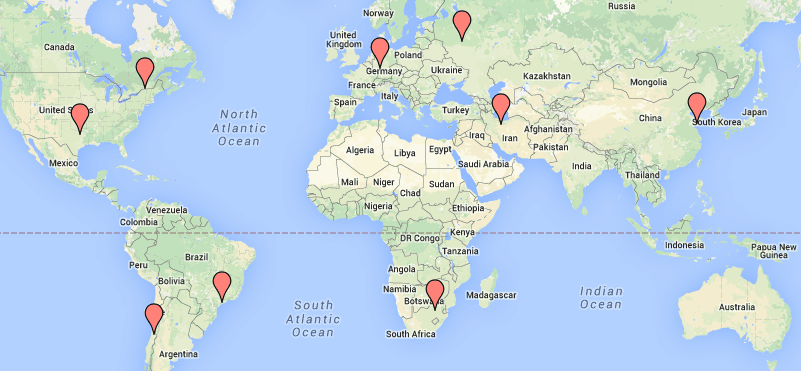
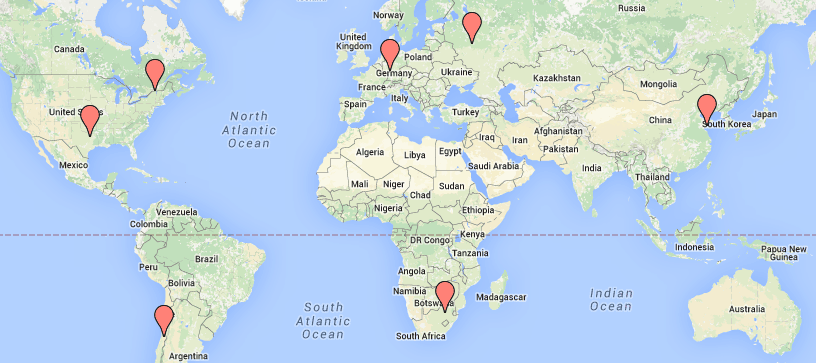
Update locations.png

diff --git a/www/index.php b/www/index.php
@@ -20,7 +20,7 @@ menu: |
 <div class="block">
 <h2>DDRace Servers and much more!</h2>
 <p>
-DDraceNetwork (DDNet) is an actively maintained version of DDRace, a <a href="https://www.teeworlds.com/">Teeworlds</a> modification with a unique cooperative gameplay. Help each other play through <a href="/releases/">custom maps</a> with up to 64 players, compete against the best in <a href="/tournaments/">international tournaments</a>, design your <a href="/howto/">own maps</a>, or run your <a href="/settingscommands/">own server</a>. The <a href="/status/">official servers</a> are located in Germany, USA, Canada, Russia, China, Chile, Brazil and South Africa. All <a href="/ranks/">ranks</a> made on official servers are available worldwide and you can <a href="/players/milk">collect points</a>!
+DDraceNetwork (DDNet) is an actively maintained version of DDRace, a <a href="https://www.teeworlds.com/">Teeworlds</a> modification with a unique cooperative gameplay. Help each other play through <a href="/releases/">custom maps</a> with up to 64 players, compete against the best in <a href="/tournaments/">international tournaments</a>, design your <a href="/howto/">own maps</a>, or run your <a href="/settingscommands/">own server</a>. The <a href="/status/">official servers</a> are located in Germany, USA, Canada, Russia, China, Chile and South Africa. All <a href="/ranks/">ranks</a> made on official servers are available worldwide and you can <a href="/players/milk">collect points</a>!
 </p>
 <!--<div class="video-container"><iframe id="jsclient" class="ytplayer" src="http://teewebs.net/"></iframe></div><div align="right"><a href="http://teewebs.net/">DDnet JS client by eeeee</a></div>
 <script src="/jquery.js" type="text/javascript"></script>
